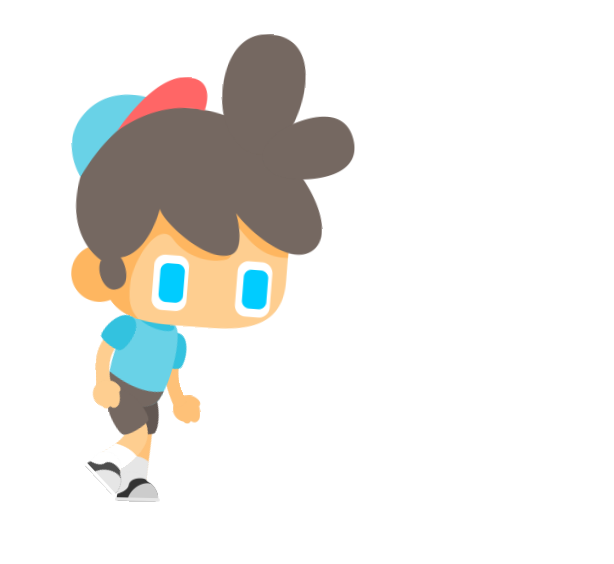
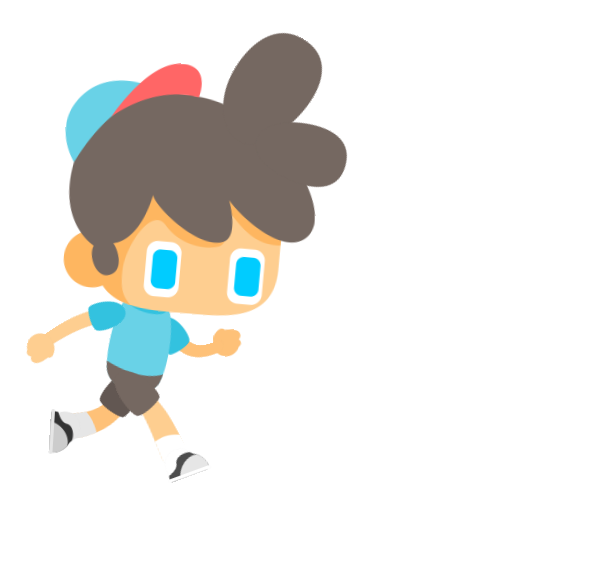
change sprite imgname

Changed region(s): [[0.0309, 0.3014, 0.557, 0.9043], [0.0928, 0.0603, 0.5879, 0.3918]]

diff --git a/src/entities/player.py b/src/entities/player.py
@@ -1,32 +1,44 @@
-from src.constants import FULL_VALUE, PLAYER_SPEED
+from src.constants import FULL_VALUE, PLAYER_SPEED, IMAGE_FOLDER
 from src.entities.food import Food, Healthy, Unhealthy, Water
 from src.entities.entity import Entity
 
+
 class Player(Entity):
-    
+
     satiation: int
     hydration: int
     scores: int
     move_direction: int
     speed: int
+    image: str
 
     def __init__(self):
-        super().__init__(500, 600, 55, 55, "assets/image/meat.jpg")
+        super().__init__(500, 600, 55, 55, IMAGE_FOLDER + "Idle_1.png")
+        self.image = IMAGE_FOLDER + "Idle_1.png"
         self.satiation = 0
         self.hydration = FULL_VALUE
         self.scores = 0
         self.speed = PLAYER_SPEED
-        self.move_direction = 0 # -1 for left; 0 for stop; 1 for right
-
-    def eat(score):
-        scores+=score
+        self.move_direction = 0  # -1 for left; 0 for stop; 1 for right
 
     def move_left(self):
+        if self.move_direction >= 0:
+            self.image = pygame.transform.flip(IMAGE_FOLDER + "Run_1.png")
+        else:
+            img_idx = self.image[-5:-4]
+            self.image = pygame.transform.flip(
+                IMAGE_FOLDER + "Run_" + str((img_idx + 1) % 4) + ".png"
+            )
         self.move_direction = -1
 
     def move_right(self):
+        if self.move_direction <= 0:
+            self.image = IMAGE_FOLDER + "Run_1.png"
+        else:
+            img_idx = self.image[-5:-4]
+            self.image = IMAGE_FOLDER + "Run_" + str((img_idx + 1) % 4) + ".png"
         self.move_direction = 1
-    
+
     def stop_moving(self):
         self.move_direction = 0
 
@@ -45,7 +57,7 @@ class Player(Entity):
         if isinstance(food, Water) or isinstance(food, Unhealthy):
             hydration += food.hydration
 
-    def tick(self, delta: int, objects: 'list'):
+    def tick(self, delta: int, objects: "list"):
         self.velocity.x = self.speed * self.move_direction
 
         # check colliction with food

diff --git a/src/game.py b/src/game.py
@@ -43,7 +43,6 @@ class Game:
 
     def handle_input(self, events):
         for event in events:
-
             if event.type == pygame.KEYDOWN:
                 # menu
                 # if event.key == K_UP:
@@ -64,7 +63,6 @@ class Game:
                     self.player.stop_moving()
                 if event.key == K_RIGHT and self.player.move_direction > 0:
                     self.player.stop_moving()
-
 
     def generate_food(x: int):
         rand_fname = FOOD_PROPS["nutrients"][stage][
@@ -112,18 +110,22 @@ class Game:
     def render(self, display, font):
         # load background
         picture = pygame.image.load("assets/image/background.png")
-        picture = pygame.transform.scale(picture,(SCREEN_W, SCREEN_H))
+        picture = pygame.transform.scale(picture, (SCREEN_W, SCREEN_H))
         display.blit(picture, (0, 0))
 
         for obj in self.entities:
             if isinstance(obj, Player):
                 obj.render(display)
 
-        self.render_text(display, font, "Nutrition Expert", WHITE, (SCREEN_W//2-70,25))
-        self.render_text(display, font, f"Satisation level: {self.player.satiation}", WHITE, (50,25))
-        self.render_text(display, font, f"Hydration level: {self.player.hydration}", WHITE, (50,50))
-
-
+        self.render_text(
+            display, font, "Nutrition Expert", WHITE, (SCREEN_W // 2 - 70, 25)
+        )
+        self.render_text(
+            display, font, f"Satisation level: {self.player.satiation}", WHITE, (50, 25)
+        )
+        self.render_text(
+            display, font, f"Hydration level: {self.player.hydration}", WHITE, (50, 50)
+        )
 
     def update(self, delta):
         for i in range(len(self.entities) - 1, -1, -1):
@@ -135,6 +137,8 @@ class Game:
             # Execute entity logic
             obj.tick(delta, self.entities)
             obj.move(delta)
+
+
 def generate_food(stage: str):
     x = randint(0, SCREEN_W)
     rand_fname = FOOD_PROPS["nutrients"][stage][

diff --git a/src/constants.py b/src/constants.py
@@ -10,8 +10,9 @@ BLACK = (0, 0, 0)
 
 # player properties
 PLAYER_SPEED = 0.8
-
+DEFAULT_IMAGE = "assets/image/player/Idle_1.png"
 FULL_VALUE = 100
+
 FOOD_STATS = {
     "FOODS": "./food_list.json",
     "FOOD_VEL": 5,
